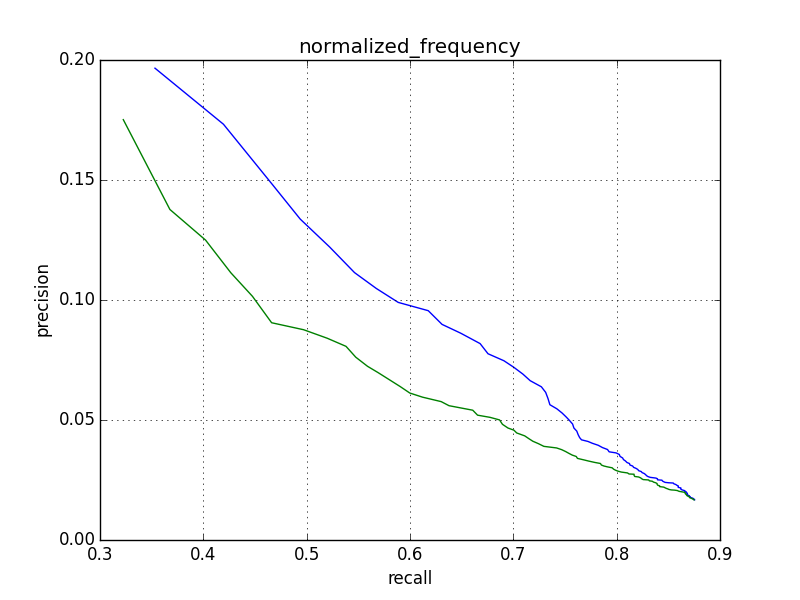
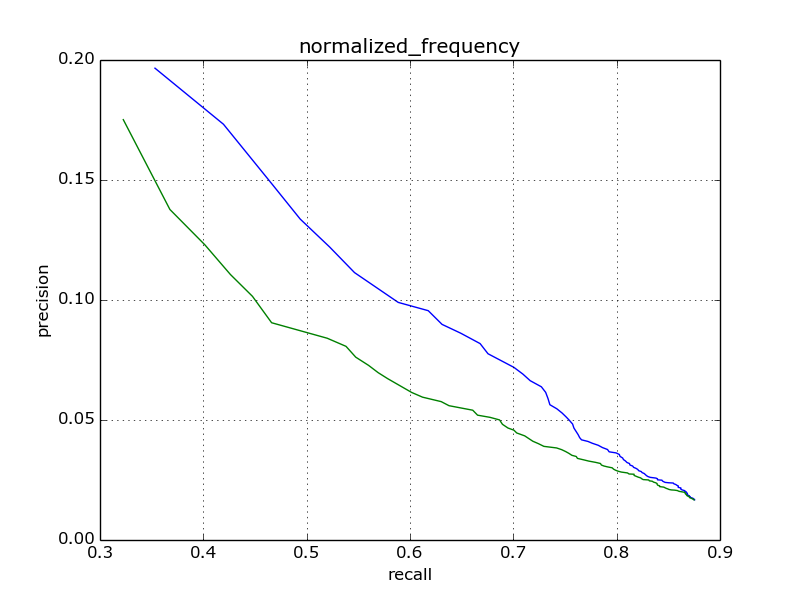
Adding probabilistic model.

diff --git a/index/clients/statistics/stats_generator.py b/index/clients/statistics/stats_generator.py
@@ -6,7 +6,7 @@ from pylab import *
 import time
 from ...core.index import Index
 from ...core.index_config import IndexConfig
-from ...core.vectorial_query import VectorialQueryTfIdf, VectorialQueryNormCount
+from ...core.vectorial_query import VectorialQueryTfIdf, VectorialQueryNormCount, VectorialQueryProbabilistic
 
 
 def generate_recall_precision_graph(x_data, y_data, chart_title, output_folder):
@@ -86,7 +86,7 @@ class StatsGenerator(object):
         start_time = time.time()
         generator = RecallPrecisionGenerator(index, VectorialQueryTfIdf, queries, expected)
         (recall, prec) = generator.generate(self._iterations)
-        generate_recall_precision_graph(recall, prec, 'tfidf', "")
+        generate_recall_precision_graph(recall, prec, 'tfidf', self._output_folder)
         print('TFIDF queries ran in {0:.4f} seconds.'.format(time.time() - start_time))
 
         start_time = time.time()
@@ -94,6 +94,12 @@ class StatsGenerator(object):
         (recall, prec) = generator.generate(self._iterations)
         generate_recall_precision_graph(recall, prec, 'normalized_frequency', self._output_folder)
         print('Normalized freq. queries ran in {0:.4f} seconds.'.format(time.time() - start_time))
+
+        start_time = time.time()
+        generator = RecallPrecisionGenerator(index, VectorialQueryProbabilistic, queries, expected)
+        (recall, prec) = generator.generate(self._iterations)
+        generate_recall_precision_graph(recall, prec, 'probabilistic', self._output_folder)
+        print('Probabilistic queries ran in {0:.4f} seconds.'.format(time.time() - start_time))
 
     def _read_queries(self):
         '''
@@ -149,13 +155,13 @@ class RecallPrecisionGenerator(object):
         '''
         average_prec_list = []
         average_recall_list = []
-        percentage_step = int(ceil(100/iterations))
 
-        for percentage in range(1, 100, percentage_step):
+        for percentage in range(1, iterations):
             average_prec = 0
             average_recall = 0
+            perc = int(ceil(percentage / iterations * 100))
             for (query_id, _) in self._queries.items():
-                (recall, prec) = self._compute_recall_and_precision(query_id, percentage)
+                (recall, prec) = self._compute_recall_and_precision(query_id, perc)
                 average_recall = average_recall + recall
                 average_prec = average_prec + prec
             average_recall = average_recall / len(self._queries)

diff --git a/index/clients/repl/repl_client.py b/index/clients/repl/repl_client.py
@@ -8,7 +8,7 @@ from ...core.index import Index
 from ...core.index_config import IndexConfig
 from ...core.index_serializer import IndexSerializer
 from ...core.boolean_query import BooleanQuery
-from ...core.vectorial_query import VectorialQueryTfIdf, VectorialQueryNormCount
+from ...core.vectorial_query import VectorialQueryTfIdf, VectorialQueryNormCount, VectorialQueryProbabilistic
 from .command_line import CommandLine
 
 
@@ -29,7 +29,8 @@ class ReplClient(object):
             'saveIndex':  SaveIndexAction,
             'loadIndex': LoadIndexAction,
             'tfidfVectorial': VectorialQueryTfidfAction,
-            'normCountVectorial': VectorialQueryNormCountAction
+            'normCountVectorial': VectorialQueryNormCountAction,
+            'probabilisticVectorial': VectorialQueryProbabilisticAction
         }
         self._command_line = CommandLine(
             autocomplete_actions=self._actions.keys())
@@ -194,6 +195,18 @@ class VectorialQueryNormCountAction(VectorialQueryAction):
     def help(self):
         return '''Wrong use.
         Example: normCountVectorial this is a vectorial query'''
+
+
+class VectorialQueryProbabilisticAction(VectorialQueryAction):
+
+    def __init__(self, client, arguments):
+        super(VectorialQueryProbabilisticAction, self).__init__(client, arguments)
+        query_text = " ".join(arguments)
+        self._query = VectorialQueryProbabilistic(query_text)
+
+    def help(self):
+        return '''Wrong use.
+        Example: probabilisticVectorial this is a vectorial query'''
 
 
 class SaveIndexAction(Action):

diff --git a/index/core/index.py b/index/core/index.py
@@ -3,6 +3,7 @@ Main entry point of the package.
 Provides the Index class that is able to index a collection
 of documents and can be used to query them.
 '''
+from math import log
 from .document_index import DocumentIndex, StructuredDocument
 from .utility import merge_dictionaries, tf_idf, norm, \
                      compute_query_vector, compute_norm_count_for_word
@@ -71,6 +72,24 @@ class Index:
             return weight_input
         else:
             return 0.0
+
+    def probabilistic_query(self, query_words):
+        '''
+        Computes the RSV (Retrieval Status Value) for all documents
+        with respect to the query.
+        '''
+        results = {}
+        for word in query_words:
+            if word in self._inverted_index:
+                document_frequency = len(self._inverted_index[word])
+                irrelevant_prob = document_frequency / self._number_of_docs
+                relevant_prob = 0.5
+                for doc in self._inverted_index[word]:
+                    if doc[DOC_ID] in results:
+                        results[doc[DOC_ID]] += log(relevant_prob/(1 - relevant_prob)) - log(irrelevant_prob/(1 - irrelevant_prob))
+                    else:
+                        results[doc[DOC_ID]] = log(relevant_prob/(1 - relevant_prob)) - log(irrelevant_prob/(1 - irrelevant_prob))
+        return results
 
     def _scalar_product_with_index(self, query_vector, weight_key):
         '''

diff --git a/index/core/tests/test_vectorial_query.py b/index/core/tests/test_vectorial_query.py
@@ -3,7 +3,7 @@ import unittest
 from math import sqrt
 from ..index import Index
 from ..index_config import IndexConfig
-from ..vectorial_query import VectorialQueryTfIdf, VectorialQueryNormCount
+from ..vectorial_query import VectorialQueryTfIdf, VectorialQueryNormCount, VectorialQueryProbabilistic
 
 
 class VectorialQueryTests(unittest.TestCase):
@@ -31,5 +31,15 @@ class VectorialQueryTests(unittest.TestCase):
         for (doc_id, cos) in results:
             if doc_id == 1:
                 self.assertEqual(0.5/doc_norm, cos)
+                success = True
+        self.assertTrue(success)
+
+    def test_vectorial_query_proba(self):
+        '''Tests a vectorial query that uses normalized count as a weight.'''
+        query = VectorialQueryProbabilistic("algebraic")
+        results = query.execute(self._index)
+        success = False
+        for (doc_id, cos) in results:
+            if doc_id == 1:
                 success = True
         self.assertTrue(success)

diff --git a/index/core/vectorial_query.py b/index/core/vectorial_query.py
@@ -55,3 +55,16 @@ class VectorialQueryNormCount(VectorialQuery):
         '''
         result_dict = index.get_matching_documents(self._index, NORM_COUNT)
         return _sort_results(result_dict)
+
+
+class VectorialQueryProbabilistic(VectorialQuery):
+
+    '''Represents a probabilistic query.'''
+
+    def execute(self, index):
+        '''
+        Executes the query against the index
+        and returns documents sorted by descending matching score.
+        '''
+        result_dict = index.probabilistic_query(self._index)
+        return _sort_results(result_dict)
